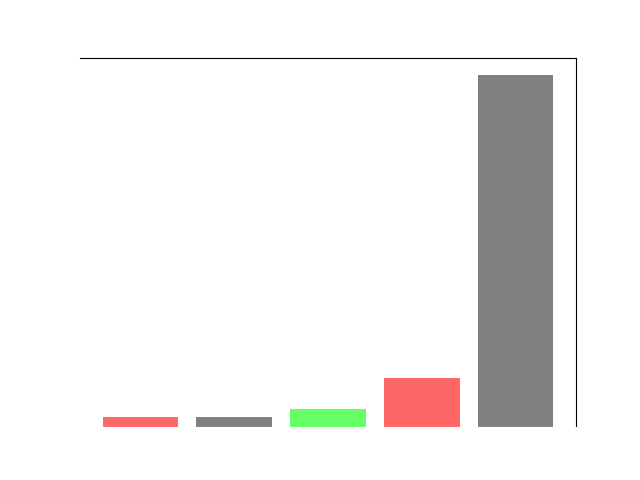
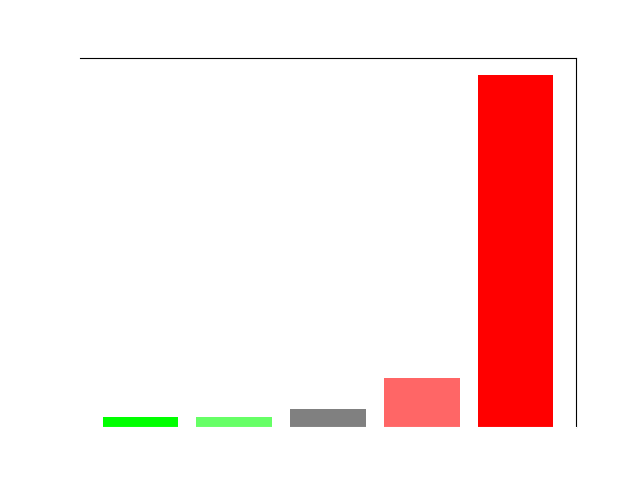
new loader

Changed region(s): [[0.75, 0.1562, 0.875, 0.9062], [0.3125, 0.8438, 0.5938, 0.9062], [0.1562, 0.8438, 0.2812, 0.9062]]

diff --git a/web_masterC-2/templates/index.html b/web_masterC-2/templates/index.html
@@ -4,7 +4,7 @@
     <title>MoodIT</title>
     <link href="../static/styles.css" rel="stylesheet">
     <script>
-      function showLoadingGif() {
+      function showLoadingSpinner() {
         document.getElementById('loadingGif').style.display = 'block';
         const formData = new FormData(document.getElementById('uploadForm'));
         const xhr = new XMLHttpRequest();
@@ -20,6 +20,7 @@
         };
         xhr.send(formData);
       }
+      
     
       
       
@@ -47,29 +48,46 @@
   
     <section class="hero">
       <div class="analyze-section">
-      <div class="heroa__container">
-        <h1 class="hero__title">
-          Analyze your dataset.
-        </h1>
-        <p class="hero__description">
-          Thanks to our system, you'll be able to analyze the sentiments from the comments of your dataset.
-        </p>
-        <form id="uploadForm" class="hero__actions">
-          <label for="csvFileInput" class="button button-primary" class="file-upload">
-            Upload CSV
-            <input type="file" name="file" id="csvFileInput" accept=".csv" class="hidden">
-          </label>
-          <button type="button" class="button button-primary" onclick="showLoadingGif()">Analyze Comments</button>
-        </form>
-        <div id="chartContainer" class="chart"></div>
+        <div class="hero__container">
+          <h1 class="hero__title">
+            Analyze your dataset.
+          </h1>
+          <p class="hero__description">
+            Thanks to our system, you'll be able to analyze the sentiments from the comments of your dataset.
+          </p>
+          <form id="uploadForm" class="hero__actions">
+            <label for="csvFileInput" class="button button-primary" class="file-upload">
+              Upload CSV
+              <input type="file" name="file" id="csvFileInput" accept=".csv" class="hidden">
+            </label>
+            <button type="button" class="button button-primary" onclick="showLoadingSpinner()">Analyze Comments</button>
+          </form>
+          <div class="loader" id="loadingGif" style="display: none;">
+            <svg width="0" height="0">
+              <filter id="gooey-plasma">
+                   <feGaussianBlur in="SourceGraphic" stdDeviation="20" result="blur"/>
+                   <feColorMatrix in="blur" mode="matrix" values="1 0 0 0 0  0 1 0 0 0  0 0 1 0 0  0 0 0 50 -16" result="goo" />
+               </filter>
+             </svg>
+             <div class="plasma">
+               <div class="gooey-container">
+                 <span class="bubble"></span>
+                 <span class="bubble"></span>
+                 <span class="bubble"></span>
+                 <span class="bubble"></span>
+                 <span class="bubble"></span>
+                 <span class="bubble"></span>
+               </div>
+             </div>
+          
+          
+          
+          
+          <div id="chartContainer" class="chart"></div>
+        </div>
       </div>
-
-      <div class="gif" id="loadingGif" style="display: none;">
-        <img src="../static/giphy-3.gif" alt="Loading...">
-      </div>
-    </div>
     </section>
-  
+    
     <footer class="footer">
       <div class="footer__container">
         <div class="footer__logo">
@@ -89,3 +107,4 @@
     </footer>
   </body>
 </html>
+

diff --git a/web_masterC-2/static/styles.css b/web_masterC-2/static/styles.css
@@ -248,3 +248,102 @@ body {
 .transparent-background {
   background-color: #111827 /* Remplacez par la couleur de fond souhaitée */
 }
+
+
+
+
+
+  
+
+
+@keyframes plasma {
+  0% {
+    transform: scale(6) translate3d(20px, 0, 0);
+  }
+  50% {
+    transform: scale(1) translate3d(-60px, 0, 0);
+  }
+  100% {
+    transform: scale(6) translate3d(20px, 0, 0);
+  }
+}
+.plasma {
+  backface-visibility: hidden;
+  z-index: 20;
+  position: relative;
+  width: 100px; /* Adjust the size here */
+  height: 100px; /* Adjust the size here */
+  padding: 0;
+  border-radius: 50%;
+  overflow: hidden;
+  box-shadow: 0 0 30px 0 #8140ff inset;
+  margin: 0 auto;
+}
+.plasma .gooey-container {
+  filter: url(#gooey-plasma);
+  position: absolute;
+  top: 50%;
+  left: 50%;
+  transform: translate(-50%, -50%);
+  width: 300px;
+  height: 300px;
+  padding: 0;
+  margin: 0;
+  box-shadow: 0 0 0 20px #ff4081 inset;
+  border-radius: 50%;
+  overflow: hidden;
+}
+.plasma .gooey-container .bubble {
+  display: block;
+  position: absolute;
+  top: 50%;
+  left: 50%;
+  width: 100%;
+  text-align: right;
+}
+.plasma .gooey-container .bubble:before {
+  content: "";
+  display: inline-block;
+  background: #ff4081;
+  width: 30px;
+  height: 30px;
+  border-radius: 50%;
+  transform: scale(6) translate3d(20px, 0, 0);
+  box-shadow: 0 0 15px 0 #0000ff inset, 0 0 10px 0 #0000ff inset;
+}
+.plasma .gooey-container .bubble:nth-child(1) {
+  transform: translate(-50%, -50%) rotate(60deg);
+}
+.plasma .gooey-container .bubble:nth-child(1):before {
+  animation: plasma 3.5s linear 0.25s infinite;
+}
+.plasma .gooey-container .bubble:nth-child(2) {
+  transform: translate(-50%, -50%) rotate(120deg);
+}
+.plasma .gooey-container .bubble:nth-child(2):before {
+  animation: plasma 4s linear 0.5s infinite;
+}
+.plasma .gooey-container .bubble:nth-child(3) {
+  transform: translate(-50%, -50%) rotate(180deg);
+}
+.plasma .gooey-container .bubble:nth-child(3):before {
+  animation: plasma 4.5s linear 0.75s infinite;
+}
+.plasma .gooey-container .bubble:nth-child(4) {
+  transform: translate(-50%, -50%) rotate(240deg);
+}
+.plasma .gooey-container .bubble:nth-child(4):before {
+  animation: plasma 5s linear 1s infinite;
+}
+.plasma .gooey-container .bubble:nth-child(5) {
+  transform: translate(-50%, -50%) rotate(300deg);
+}
+.plasma .gooey-container .bubble:nth-child(5):before {
+  animation: plasma 5.5s linear 1.25s infinite;
+}
+.plasma .gooey-container .bubble:nth-child(6) {
+  transform: translate(-50%, -50%) rotate(360deg);
+}
+.plasma .gooey-container .bubble:nth-child(6):before {
+  animation: plasma 6s linear 1.5s infinite;
+}

diff --git a/web_masterC-2/app.py b/web_masterC-2/app.py
@@ -163,7 +163,7 @@ def generate_sentiment_histogram(data):
     x = range(len(labels))
     heights = sentiment_counts.loc[labels].values
 
-    bar_plot = plt.bar(x, heights, tick_label=labels, color=['#ff6666', 'gray', '#66ff66'])
+    bar_plot = plt.bar(x, heights, tick_label=labels, color=['#00ff00', '#66ff66', 'gray', '#ff6666', '#ff0000'])
 
     # Ajouter des étiquettes aux barres
     for i, v in enumerate(heights):
